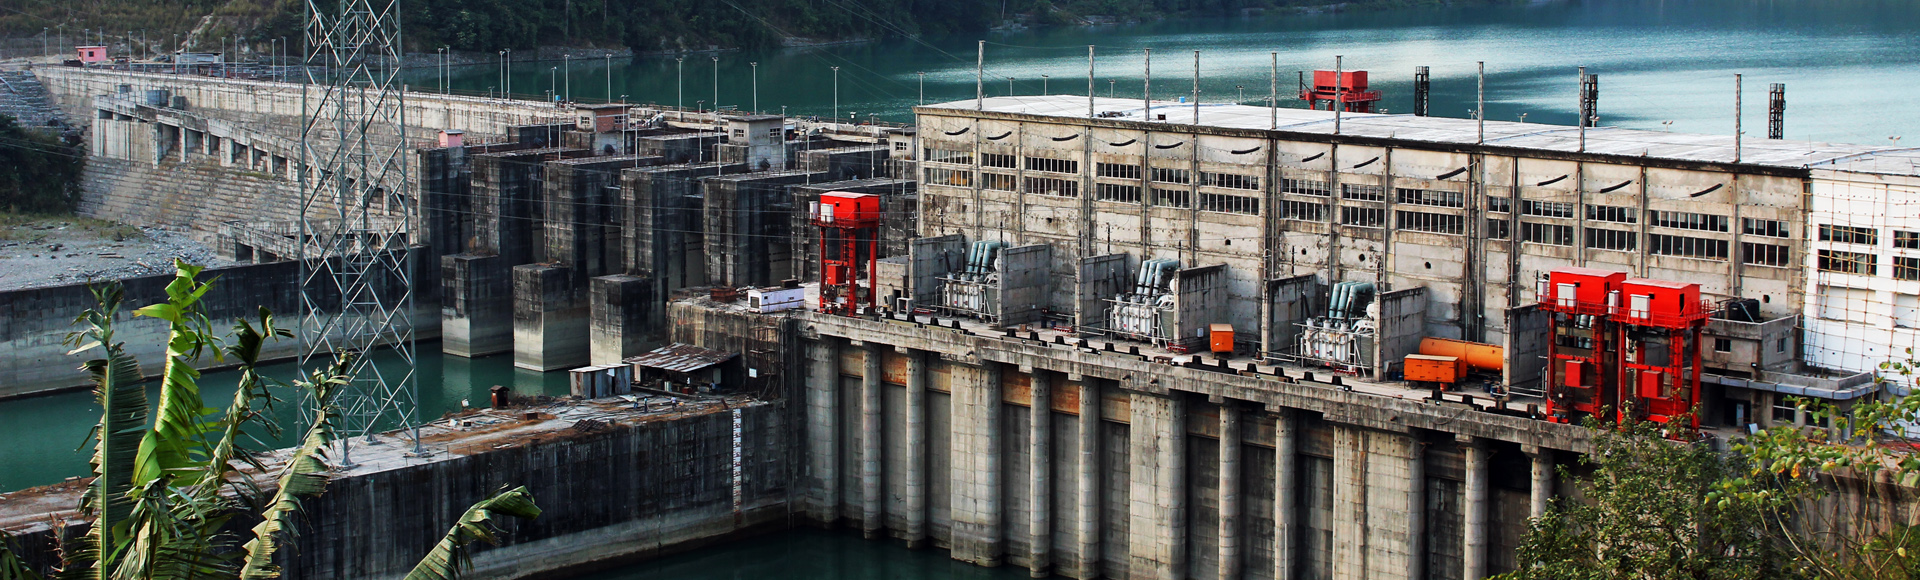
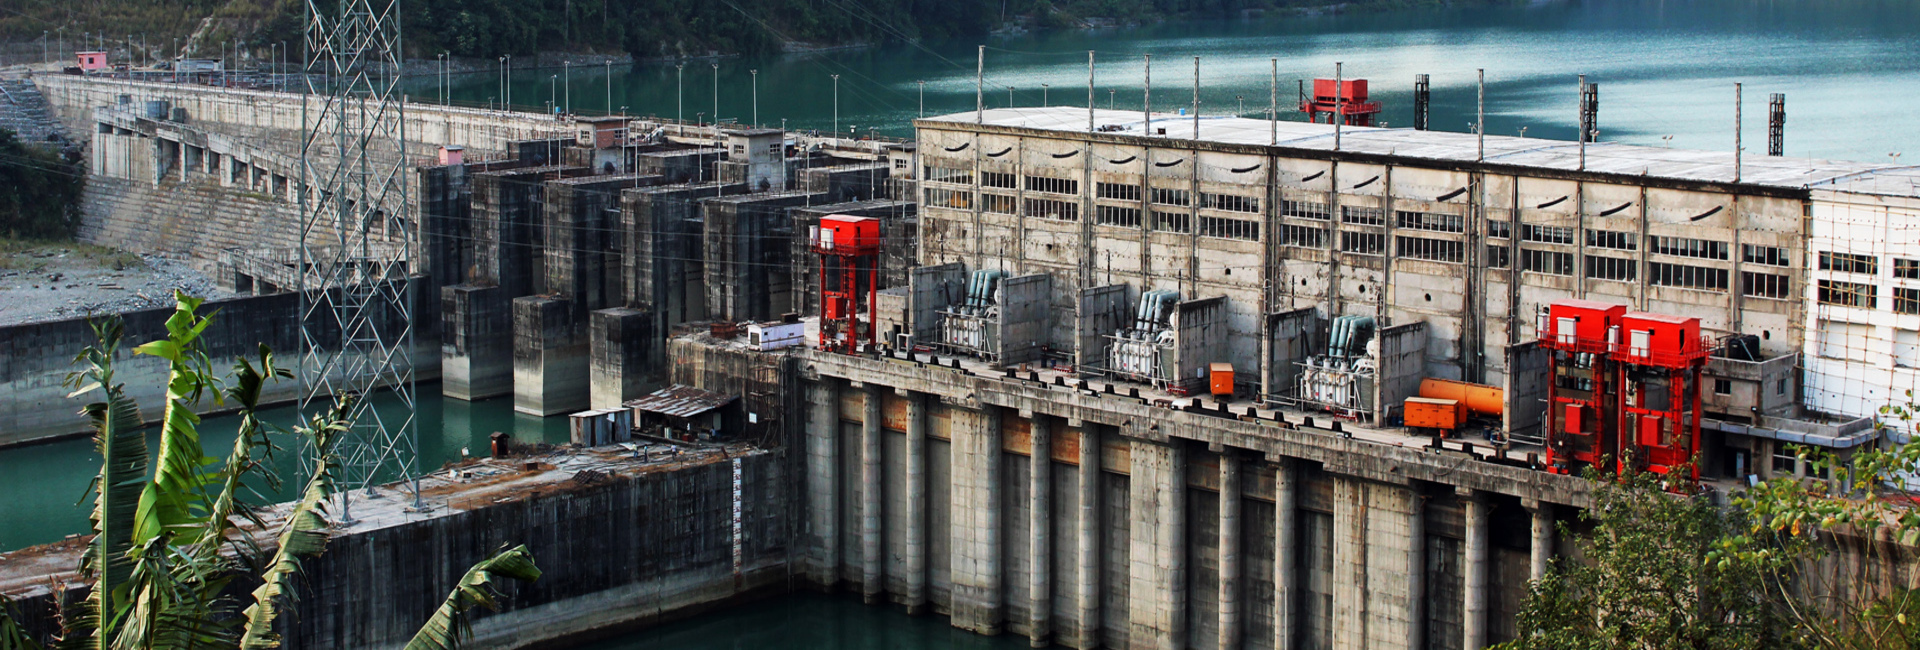
img

diff --git a/src/pages/Home/component/Carousel/Carousel.view.tsx b/src/pages/Home/component/Carousel/Carousel.view.tsx
@@ -15,7 +15,7 @@ export default function CarouselView() {
             <Slider {...settings}>
                 {CarouselImages.map((row, id) => {
                     return (
-                        <Flex key={id} w='100%' h={'auto'}>
+                        <Flex key={id} w='100%'>
                             <Image src={row} w='100%' />
                         </Flex>
                     )
